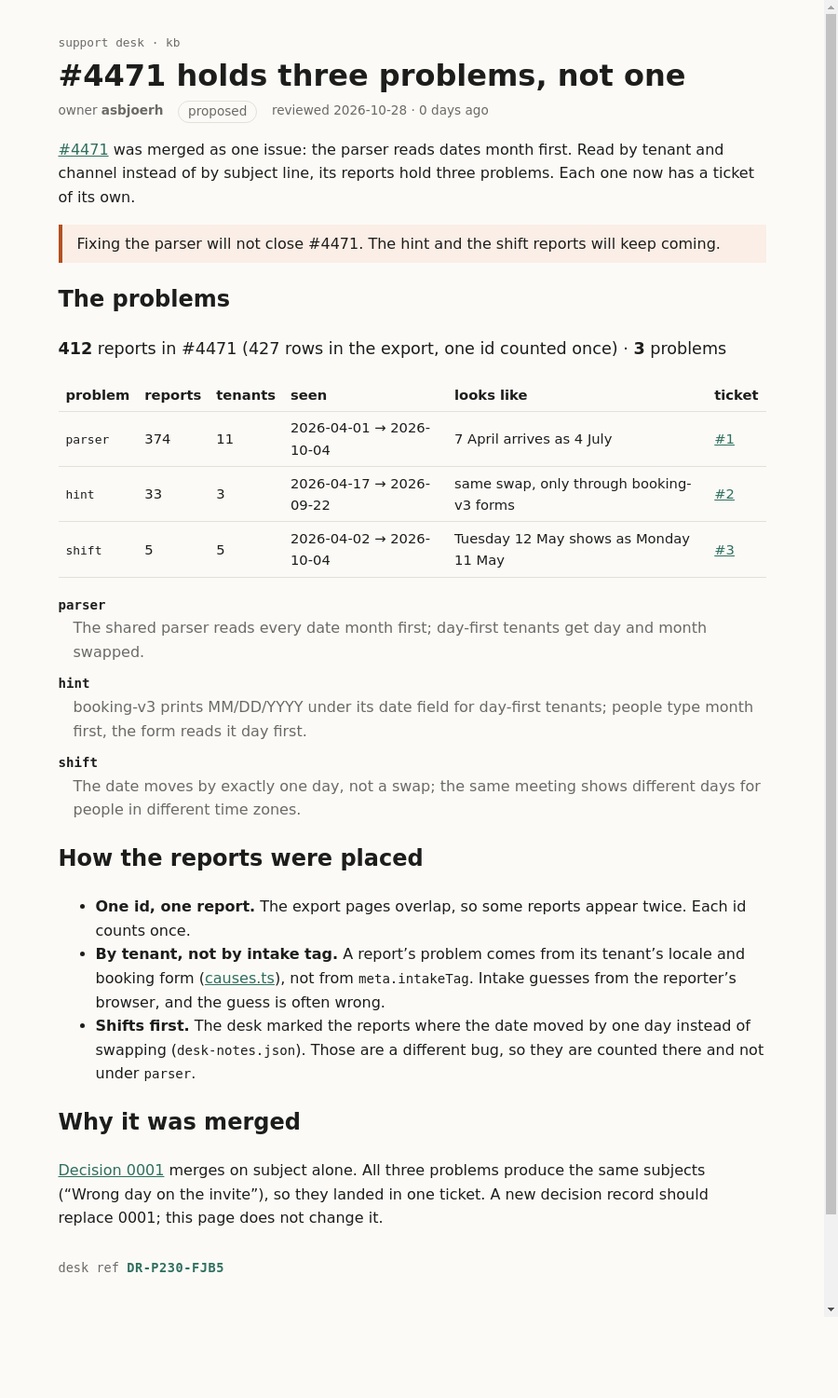
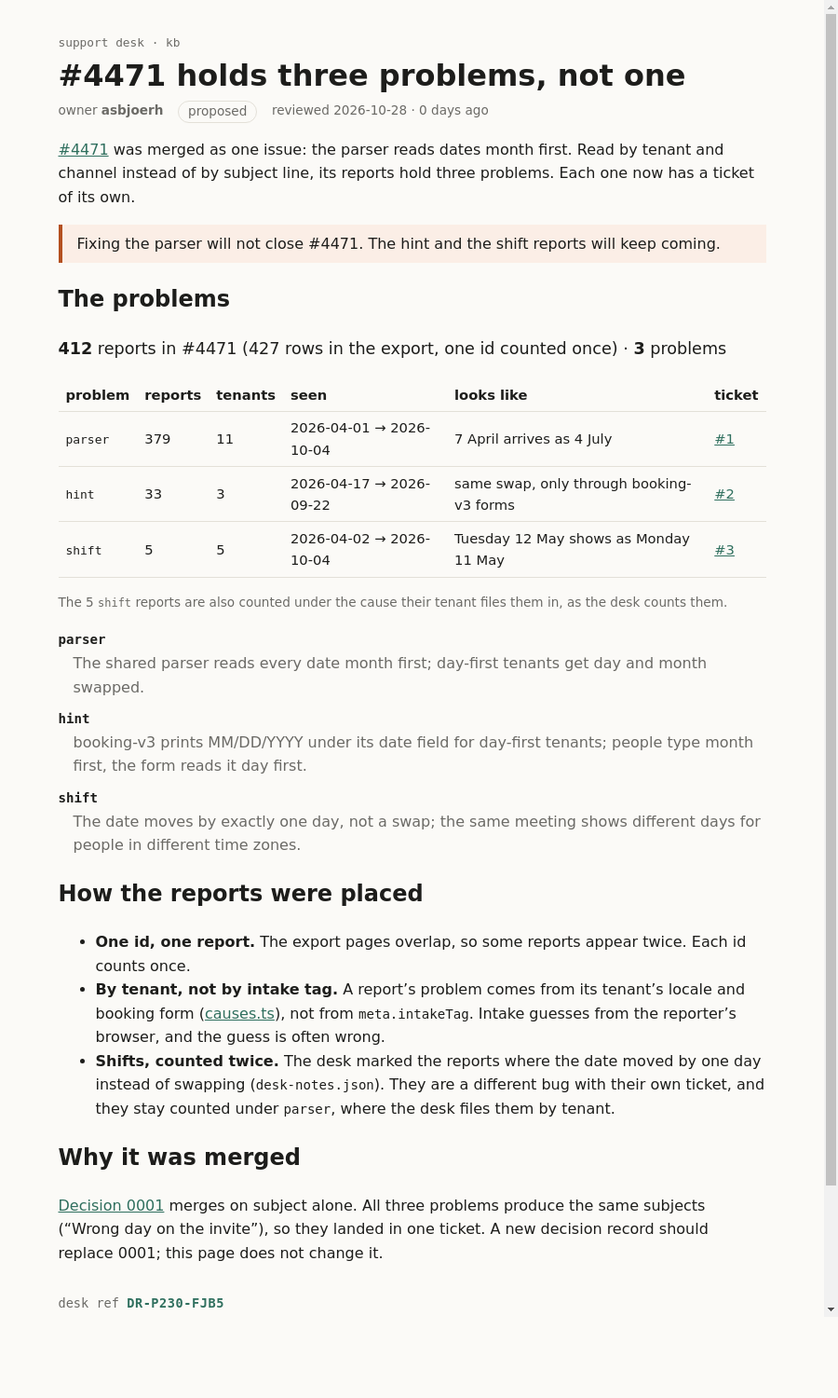
Count #4471 problems the way the desk's CauseTable does
Parser now covers 379 reports: the 5 one-day moves stay counted where the
desk files them, and also make up the shift ticket (#3).

diff --git a/build/kb/incidents/4471-split/index.html b/build/kb/incidents/4471-split/index.html
@@ -9,42 +9,42 @@
 		<link href="../../../_app/immutable/chunks/B2Ul7l_u.js" rel="modulepreload">
 		<link href="../../../_app/immutable/chunks/BCPXOG7W.js" rel="modulepreload">
 		<link href="../../../_app/immutable/chunks/Dh1V97Jm.js" rel="modulepreload">
-		<link href="../../../_app/immutable/entry/app.uLVS_vzj.js" rel="modulepreload">
+		<link href="../../../_app/immutable/entry/app.xJBNhUz1.js" rel="modulepreload">
 		<link href="../../../_app/immutable/nodes/0.BurGglGN.js" rel="modulepreload">
 		<link href="../../../_app/immutable/chunks/DK3Fl9T5.js" rel="modulepreload">
-		<link href="../../../_app/immutable/nodes/5.BGsVmfFN.js" rel="modulepreload">
-		<link href="../../../_app/immutable/chunks/CdKMBRh6.js" rel="modulepreload">
+		<link href="../../../_app/immutable/nodes/5.BeKVQcUq.js" rel="modulepreload">
+		<link href="../../../_app/immutable/chunks/DiomMRxd.js" rel="modulepreload">
 		<link href="../../../_app/immutable/chunks/BTPwLomz.js" rel="modulepreload">
 		<link href="../../../_app/immutable/chunks/CVBzP17p.js" rel="modulepreload">
 		<link href="../../../_app/immutable/chunks/BIy4WKJS.js" rel="modulepreload">
 		<!--e2jw2j--><!----><title>#4471 holds three problems, not one · support kb</title>
 		<link href="../../../_app/immutable/assets/runbook.COyw0cbZ.css" rel="stylesheet">
 		<link href="../../../_app/immutable/assets/Callout.AbLv9dM_.css" rel="stylesheet">
-		<link href="../../../_app/immutable/assets/_page.BfmXIgpt.css" rel="stylesheet">
+		<link href="../../../_app/immutable/assets/_page.BBGU7du8.css" rel="stylesheet">
   </head>
   <body data-sveltekit-preload-data="hover">
     <div style="display: contents"><!--[--><!--[--><!--[0--><!--[--><!--[--><!--[-1--><!--[--><div class="kb svelte-e2jw2j"><header><a class="crumb svelte-e2jw2j" href="/kb">support desk · kb</a> <h1 class="svelte-e2jw2j">#4471 holds three problems, not one</h1> <p class="meta svelte-e2jw2j"><span>owner <b>asbjoerh</b></span> <span class="status proposed svelte-e2jw2j">proposed</span> <span class="svelte-e2jw2j">reviewed 2026-10-28 · 0 days ago</span></p></header> <!--[-1--><!--]--> <main><p><a href="/kb/incidents/4471">#4471</a> was merged as one issue: the parser reads dates month first. Read
 by tenant and channel instead of by subject line, its reports hold three problems. Each one now
-has a ticket of its own.</p> <aside class="warn svelte-17bri61"><!---->Fixing the parser will not close #4471. The hint and the shift reports will keep coming.<!----></aside><!----> <h2>The problems</h2> <p class="sum svelte-1op6c6"><strong>412</strong> reports in #4471 (427 rows in the export, one id counted once) · <strong>3</strong> problems</p> <table><thead><tr><th>problem</th><th>reports</th><th>tenants</th><th>seen</th><th>looks like</th><th>ticket</th></tr></thead><tbody><!--[--><tr><td><code>parser</code></td><td>374</td><td>11</td><td>2026-04-01 → 2026-10-04</td><td>7 April arrives as 4 July</td><td><!--[0--><a href="https://github.com/asbjoerh/mega-dev-challenge-03/issues/1">#1</a><!--]--></td></tr><tr><td><code>hint</code></td><td>33</td><td>3</td><td>2026-04-17 → 2026-09-22</td><td>same swap, only through booking-v3 forms</td><td><!--[0--><a href="https://github.com/asbjoerh/mega-dev-challenge-03/issues/2">#2</a><!--]--></td></tr><tr><td><code>shift</code></td><td>5</td><td>5</td><td>2026-04-02 → 2026-10-04</td><td>Tuesday 12 May shows as Monday 11 May</td><td><!--[0--><a href="https://github.com/asbjoerh/mega-dev-challenge-03/issues/3">#3</a><!--]--></td></tr><!--]--></tbody></table> <dl><!--[--><!--[0--><dt class="svelte-1op6c6"><code>parser</code></dt> <dd class="svelte-1op6c6">The shared parser reads every date month first; day-first tenants get day and month swapped.</dd><!--]--><!--[0--><dt class="svelte-1op6c6"><code>hint</code></dt> <dd class="svelte-1op6c6">booking-v3 prints MM/DD/YYYY under its date field for day-first tenants; people type month first, the form reads it day first.</dd><!--]--><!--[0--><dt class="svelte-1op6c6"><code>shift</code></dt> <dd class="svelte-1op6c6">The date moves by exactly one day, not a swap; the same meeting shows different days for people in different time zones.</dd><!--]--><!--]--></dl><!----> <h2>How the reports were placed</h2> <ul><li><strong>One id, one report.</strong> The export pages overlap, so some reports appear twice. Each id counts once.</li> <li><strong>By tenant, not by intake tag.</strong> A report’s problem comes from its tenant’s locale and booking
+has a ticket of its own.</p> <aside class="warn svelte-17bri61"><!---->Fixing the parser will not close #4471. The hint and the shift reports will keep coming.<!----></aside><!----> <h2>The problems</h2> <p class="sum svelte-1op6c6"><strong>412</strong> reports in #4471 (427 rows in the export, one id counted once) · <strong>3</strong> problems</p> <table><thead><tr><th>problem</th><th>reports</th><th>tenants</th><th>seen</th><th>looks like</th><th>ticket</th></tr></thead><tbody><!--[--><tr><td><code>parser</code></td><td>379</td><td>11</td><td>2026-04-01 → 2026-10-04</td><td>7 April arrives as 4 July</td><td><!--[0--><a href="https://github.com/asbjoerh/mega-dev-challenge-03/issues/1">#1</a><!--]--></td></tr><tr><td><code>hint</code></td><td>33</td><td>3</td><td>2026-04-17 → 2026-09-22</td><td>same swap, only through booking-v3 forms</td><td><!--[0--><a href="https://github.com/asbjoerh/mega-dev-challenge-03/issues/2">#2</a><!--]--></td></tr><tr><td><code>shift</code></td><td>5</td><td>5</td><td>2026-04-02 → 2026-10-04</td><td>Tuesday 12 May shows as Monday 11 May</td><td><!--[0--><a href="https://github.com/asbjoerh/mega-dev-challenge-03/issues/3">#3</a><!--]--></td></tr><!--]--></tbody></table> <!--[0--><p class="note svelte-1op6c6">The 5 <code>shift</code> reports are also counted under the cause their tenant files them in, as the desk counts them.</p><!--]--> <dl><!--[--><!--[0--><dt class="svelte-1op6c6"><code>parser</code></dt> <dd class="svelte-1op6c6">The shared parser reads every date month first; day-first tenants get day and month swapped.</dd><!--]--><!--[0--><dt class="svelte-1op6c6"><code>hint</code></dt> <dd class="svelte-1op6c6">booking-v3 prints MM/DD/YYYY under its date field for day-first tenants; people type month first, the form reads it day first.</dd><!--]--><!--[0--><dt class="svelte-1op6c6"><code>shift</code></dt> <dd class="svelte-1op6c6">The date moves by exactly one day, not a swap; the same meeting shows different days for people in different time zones.</dd><!--]--><!--]--></dl><!----> <h2>How the reports were placed</h2> <ul><li><strong>One id, one report.</strong> The export pages overlap, so some reports appear twice. Each id counts once.</li> <li><strong>By tenant, not by intake tag.</strong> A report’s problem comes from its tenant’s locale and booking
 form (<a href="/kb/triage/dedupe">causes.ts</a>), not from <code>meta.intakeTag</code>. Intake guesses from the
-reporter’s browser, and the guess is often wrong.</li> <li><strong>Shifts first.</strong> The desk marked the reports where the date moved by one day instead of
-swapping (<code>desk-notes.json</code>). Those are a different bug, so they are counted there and not
-under <code>parser</code>.</li></ul> <h2>Why it was merged</h2> <p><a href="/kb/decisions/0001-dedupe-by-subject">Decision 0001</a> merges on subject alone. All three
+reporter’s browser, and the guess is often wrong.</li> <li><strong>Shifts, counted twice.</strong> The desk marked the reports where the date moved by one day instead of
+swapping (<code>desk-notes.json</code>). They are a different bug with their own ticket, and they stay
+counted under <code>parser</code>, where the desk files them by tenant.</li></ul> <h2>Why it was merged</h2> <p><a href="/kb/decisions/0001-dedupe-by-subject">Decision 0001</a> merges on subject alone. All three
 problems produce the same subjects (“Wrong day on the invite”), so they landed in one ticket.
 A new decision record should replace 0001; this page does not change it.</p> <!--[0--><p class="stamp svelte-1280m42">desk ref <b class="svelte-1280m42">DR-P230-FJB5</b></p><!--]--><!----><!----></main> <footer class="svelte-e2jw2j">Pages are written by people. Tables and charts are built from data at render time.</footer></div><!--]--><!--]--><!--]--><!----><!--]--><!--]--><!--]--><!----> <!--[-1--><!--]--><!--]-->
 			
 			<script>
 				{
-					__sveltekit_16bkf6d = {
+					__sveltekit_loyyns = {
 						base: new URL("../../..", location).pathname.slice(0, -1),
-						version: "1793172886619"
+						version: "1793172965807"
 					};
 
 					const element = document.currentScript.parentElement;
 
 					import("../../../_app/immutable/entry/start.CH5w6lId.js").then(async (kit) => {
-						kit.init(__sveltekit_16bkf6d);
-						const app = await import("../../../_app/immutable/entry/app.uLVS_vzj.js");
+						kit.init(__sveltekit_loyyns);
+						const app = await import("../../../_app/immutable/entry/app.xJBNhUz1.js");
 						kit.start(app, element, {
 							node_ids: [0, 5],
 							data: [null,null],

diff --git a/build/_app/immutable/chunks/DiomMRxd.js b/build/_app/immutable/chunks/DiomMRxd.js
@@ -1,0 +1,9 @@
+import{t as e}from"./DK3Fl9T5.js";import{E as t,F as n,H as r,I as i,K as a,L as o,N as s,O as c,R as l,S as u,T as d,U as f,W as p,_ as m,c as h,h as g,k as _,n as v,q as y,r as b,t as x,w as S}from"./BCPXOG7W.js";import{t as C}from"./BTPwLomz.js";import{n as w,t as T}from"./CVBzP17p.js";import{i as E,l as D,r as O,t as k}from"./BIy4WKJS.js";var A={parser:{what:`The shared parser reads every date month first; day-first tenants get day and month swapped.`,seenAs:`7 April arrives as 4 July`},hint:{what:`booking-v3 prints MM/DD/YYYY under its date field for day-first tenants; people type month first, the form reads it day first.`,seenAs:`same swap, only through booking-v3 forms`},shift:{what:`The date moves by exactly one day, not a swap; the same meeting shows different days for people in different time zones.`,seenAs:`Tuesday 12 May shows as Monday 11 May`}};function j(e,t,n,r){let i=D(e).filter(e=>e.mergedInto===t),a=new Map,o=(e,t)=>a.set(e,[...a.get(e)??[],t]);for(let e of i)o(E(e,n(e))??`unplaced`,e),r.includes(e.id)&&o(`shift`,e);let s=[...a.entries()].map(([e,t])=>{let n=t.map(e=>e.receivedAt.slice(0,10)).sort();return{problem:e,reports:t,tenants:new Set(t.map(e=>e.tenant)).size,firstSeen:n[0],lastSeen:n[n.length-1]}}).sort((e,t)=>t.reports.length-e.reports.length);return{merged:i.length,groups:s}}var M=t(`<a> </a>`),N=t(`<tr><td><code> </code></td><td> </td><td> </td><td> </td><td> </td><td><!></td></tr>`),P=t(`<p class="note svelte-1op6c6"> <code>shift</code> reports are also counted under the cause their tenant files them in, as the desk counts them.</p>`),F=t(`<dt class="svelte-1op6c6"><code> </code></dt> <dd class="svelte-1op6c6"> </dd>`,1),I=t(`<p class="sum svelte-1op6c6"><strong> </strong> <strong> </strong> problems</p> <table><thead><tr><th>problem</th><th>reports</th><th>tenants</th><th>seen</th><th>looks like</th><th>ticket</th></tr></thead><tbody></tbody></table> <!> <dl></dl>`,1);function L(e,t){p(t,!0);let b=v(t,`tickets`,19,()=>({})),x=r(()=>j(w,t.ticket,O,T.oneDayMove)),C=r(()=>_(x).groups),E=r(()=>_(x).merged),D=r(()=>_(C).find(e=>e.problem===`shift`)?.reports.length??0),k=w.length;var L=I(),R=i(L),z=n(R),B=o(z,!0),V=l(z),H=l(V),U=o(H,!0);a(),y(R);var W=l(R,2),G=l(n(W));g(G,21,()=>_(C),e=>e.problem,(e,t)=>{var r=N(),i=n(r),a=n(i),d=o(a,!0);y(i);var f=l(i),p=o(f,!0),g=l(f),v=o(g,!0),x=l(g),C=o(x),w=l(x),T=o(w,!0),E=l(w),D=n(E),O=e=>{var n=M(),r=o(n,!0);s(e=>{h(n,`href`,b()[_(t).problem]),u(r,e)},[()=>b()[_(t).problem].replace(/^.*\/issues\//,`#`)]),S(e,n)},k=e=>{var t=c(`—`);S(e,t)};m(D,e=>{b()[_(t).problem]?e(O):e(k,-1)}),y(E),y(r),s(()=>{u(d,_(t).problem),u(p,_(t).reports.length),u(v,_(t).tenants),u(C,`${_(t).firstSeen??``} → ${_(t).lastSeen??``}`),u(T,_(t).problem===`unplaced`?`no tenant on file`:A[_(t).problem].seenAs)}),S(e,r)}),y(G),y(W);var K=l(W,2),q=e=>{var t=P(),r=n(t);a(2),y(t),s(()=>u(r,`The ${_(D)??``} `)),S(e,t)};m(K,e=>{_(D)&&e(q)});var J=l(K,2);g(J,21,()=>_(C),e=>e.problem,(e,t)=>{var r=d(),a=i(r),c=e=>{var r=F(),a=i(r),c=n(a),d=o(c,!0);y(a);var f=l(a,2),p=o(f,!0);s(()=>{u(d,_(t).problem),u(p,A[_(t).problem].what)}),S(e,r)};m(a,e=>{_(t).problem!==`unplaced`&&e(c)}),S(e,r)}),y(J),s(()=>{u(B,_(E)),u(V,` reports in #${t.ticket??``} (${k??``} rows in the export, one id counted once) · `),u(U,_(C).length)}),S(e,L),f()}var R=`0123456789ABCDEFGHJKMNPQRSTVWXYZ`;function z(e,t){let n=t>>>0;for(let t=0;t<e.length;t++)n^=e.charCodeAt(t),n=Math.imul(n,16777619)>>>0;return n}function B(e){let t=e.trim(),n=z(t,2166136261),r=z(t,2654435769),i=BigInt(n)<<8n|BigInt(r&255),a=``;for(let e=0;e<8;e++)a=R[Number(i&31n)]+a,i>>=5n;return`DR-${a.slice(0,4)}-${a.slice(4)}`}var V=t(`<p class="stamp svelte-1280m42">desk ref <b class="svelte-1280m42"> </b></p>`),H=t(`<p class="stamp missing svelte-1280m42">no desk ref: this page isn't signed (no <code>signature</code> in its frontmatter)</p>`);function U(e,t){p(t,!0);let a=r(()=>t.signature?B(t.signature):null);var c=d(),h=i(c),g=e=>{var t=V(),r=l(n(t)),i=o(r,!0);y(t),s(()=>u(i,_(a))),S(e,t)},v=e=>{var t=H();S(e,t)};m(h,e=>{_(a)?e(g):e(v,-1)}),S(e,c),f()}var W=e({default:()=>$,metadata:()=>G}),G={layout:`runbook`,title:`#4471 holds three problems, not one`,owner:`asbjoerh`,status:`proposed`,reviewed:`2026-10-28T00:00:00.000Z`,signature:`v1.eyJzdWIiOiIzMzM4IiwiYXVkIjoiY2hhbGxlbmdlOndoYXQtaXQtc2hvd3MiLCJpYXQiOjE3OTMxNzIzODgsImV4cCI6MTc5MzI1ODc4OH0.BZH2iklKbkUv4aNCVdapvltlCIk4Xo6yV578-lsls-w`},{layout:K,title:q,owner:J,status:Y,reviewed:X,signature:Z}=G,Q=t(`<p><a href="/kb/incidents/4471">#4471</a> was merged as one issue: the parser reads dates month first. Read
+by tenant and channel instead of by subject line, its reports hold three problems. Each one now
+has a ticket of its own.</p> <!> <h2>The problems</h2> <!> <h2>How the reports were placed</h2> <ul><li><strong>One id, one report.</strong> The export pages overlap, so some reports appear twice. Each id counts once.</li> <li><strong>By tenant, not by intake tag.</strong> A report’s problem comes from its tenant’s locale and booking
+form (<a href="/kb/triage/dedupe">causes.ts</a>), not from <code>meta.intakeTag</code>. Intake guesses from the
+reporter’s browser, and the guess is often wrong.</li> <li><strong>Shifts, counted twice.</strong> The desk marked the reports where the date moved by one day instead of
+swapping (<code>desk-notes.json</code>). They are a different bug with their own ticket, and they stay
+counted under <code>parser</code>, where the desk files them by tenant.</li></ul> <h2>Why it was merged</h2> <p><a href="/kb/decisions/0001-dedupe-by-subject">Decision 0001</a> merges on subject alone. All three
+problems produce the same subjects (“Wrong day on the invite”), so they landed in one ticket.
+A new decision record should replace 0001; this page does not change it.</p> <!>`,1);function $(e,t){let n=x(t,[`children`,`$$slots`,`$$events`,`$$legacy`]),r={parser:`https://github.com/asbjoerh/mega-dev-challenge-03/issues/1`,hint:`https://github.com/asbjoerh/mega-dev-challenge-03/issues/2`,shift:`https://github.com/asbjoerh/mega-dev-challenge-03/issues/3`};C(e,b(()=>n,()=>G,{children:(e,t)=>{var n=Q(),o=l(i(n),2);k(o,{kind:`warn`,children:(e,t)=>{a();var n=c(`Fixing the parser will not close #4471. The hint and the shift reports will keep coming.`);S(e,n)},$$slots:{default:!0}});var s=l(o,4);L(s,{ticket:4471,get tickets(){return r}}),U(l(s,10),{get signature(){return Z}}),S(e,n)},$$slots:{default:!0}}))}export{$ as n,W as t};

diff --git a/build/kb/index.html b/build/kb/index.html
@@ -9,22 +9,22 @@
 		<link href="../_app/immutable/chunks/B2Ul7l_u.js" rel="modulepreload">
 		<link href="../_app/immutable/chunks/BCPXOG7W.js" rel="modulepreload">
 		<link href="../_app/immutable/chunks/Dh1V97Jm.js" rel="modulepreload">
-		<link href="../_app/immutable/entry/app.uLVS_vzj.js" rel="modulepreload">
+		<link href="../_app/immutable/entry/app.xJBNhUz1.js" rel="modulepreload">
 		<link href="../_app/immutable/nodes/0.BurGglGN.js" rel="modulepreload">
 		<link href="../_app/immutable/chunks/DK3Fl9T5.js" rel="modulepreload">
-		<link href="../_app/immutable/nodes/2.CbntxB6U.js" rel="modulepreload">
+		<link href="../_app/immutable/nodes/2.C1-e4lHU.js" rel="modulepreload">
 		<link href="../_app/immutable/chunks/BTPwLomz.js" rel="modulepreload">
 		<link href="../_app/immutable/chunks/YX22L_Ud.js" rel="modulepreload">
 		<link href="../_app/immutable/chunks/CgeRC4yK.js" rel="modulepreload">
 		<link href="../_app/immutable/chunks/CVBzP17p.js" rel="modulepreload">
 		<link href="../_app/immutable/chunks/BIy4WKJS.js" rel="modulepreload">
-		<link href="../_app/immutable/chunks/CdKMBRh6.js" rel="modulepreload">
+		<link href="../_app/immutable/chunks/DiomMRxd.js" rel="modulepreload">
 		<link href="../_app/immutable/chunks/BGqJVSDw.js" rel="modulepreload">
 		<!--e2jw2j--><!----><title>Support knowledge base · support kb</title>
 		<link href="../_app/immutable/assets/runbook.COyw0cbZ.css" rel="stylesheet">
 		<link href="../_app/immutable/assets/Callout.AbLv9dM_.css" rel="stylesheet">
 		<link href="../_app/immutable/assets/_page.D56XP2ro.css" rel="stylesheet">
-		<link href="../_app/immutable/assets/_page.BfmXIgpt.css" rel="stylesheet">
+		<link href="../_app/immutable/assets/_page.BBGU7du8.css" rel="stylesheet">
 		<link href="../_app/immutable/assets/_page.DO6Yid7X.css" rel="stylesheet">
 		<link href="../_app/immutable/assets/2.Bt0MwIZg.css" rel="stylesheet">
   </head>
@@ -34,16 +34,16 @@ computed by a component, not typed into a paragraph.</p><!----></main> <footer c
 			
 			<script>
 				{
-					__sveltekit_16bkf6d = {
+					__sveltekit_loyyns = {
 						base: new URL("..", location).pathname.slice(0, -1),
-						version: "1793172886619"
+						version: "1793172965807"
 					};
 
 					const element = document.currentScript.parentElement;
 
 					import("../_app/immutable/entry/start.CH5w6lId.js").then(async (kit) => {
-						kit.init(__sveltekit_16bkf6d);
-						const app = await import("../_app/immutable/entry/app.uLVS_vzj.js");
+						kit.init(__sveltekit_loyyns);
+						const app = await import("../_app/immutable/entry/app.xJBNhUz1.js");
 						kit.start(app, element, {
 							node_ids: [0, 2],
 							data: [null,null],

diff --git a/src/lib/kb/split.ts b/src/lib/kb/split.ts
@@ -1,5 +1,6 @@
-// How #4471 splits into the problems it holds. causes.ts places a report by tenant and channel;
-// the desk's own notes (desk-notes.json) mark the reports that are not a day/month swap at all.
+// How #4471 splits into the problems it holds, counted the way the desk counts (CauseTable): every
+// report under its cause from causes.ts. The desk's notes (desk-notes.json) mark the reports that
+// are a one-day move, not a swap: they stay counted where they're filed and also make up `shift`.
 import { causeOf, uniqueById, type Report, type Tenant } from '#lib/kb/causes';
 
 export type Problem = 'parser' | 'hint' | 'shift';
@@ -19,11 +20,8 @@ export const PROBLEMS: Record<Problem, { what: string; seenAs: string }> = {
   },
 };
 
-export function problemOf(r: Report, t: Tenant | undefined, oneDayMove: readonly string[]): Problem | null {
-  if (oneDayMove.includes(r.id)) return 'shift';
-  return causeOf(r, t);
-}
 
+// `merged`: the unique reports in the ticket; a shift report also counts under its cause.
 export type ProblemGroup = { problem: Problem | 'unplaced'; reports: Report[]; tenants: number; firstSeen: string; lastSeen: string };
 
 // One id, one report; only reports merged into `ticket`.
@@ -32,17 +30,19 @@ export function splitTicket(
   ticket: number,
   tenantOf: (r: Report) => Tenant | undefined,
   oneDayMove: readonly string[],
-): ProblemGroup[] {
+): { merged: number; groups: ProblemGroup[] } {
   const merged = uniqueById(reports).filter((r) => r.mergedInto === ticket);
   const by = new Map<ProblemGroup['problem'], Report[]>();
+  const add = (p: ProblemGroup['problem'], r: Report) => by.set(p, [...(by.get(p) ?? []), r]);
   for (const r of merged) {
-    const p = problemOf(r, tenantOf(r), oneDayMove) ?? 'unplaced';
-    by.set(p, [...(by.get(p) ?? []), r]);
+    add(causeOf(r, tenantOf(r)) ?? 'unplaced', r);
+    if (oneDayMove.includes(r.id)) add('shift', r);
   }
-  return [...by.entries()]
+  const groups = [...by.entries()]
     .map(([problem, rs]) => {
       const days = rs.map((r) => r.receivedAt.slice(0, 10)).sort();
       return { problem, reports: rs, tenants: new Set(rs.map((r) => r.tenant)).size, firstSeen: days[0], lastSeen: days[days.length - 1] };
     })
     .sort((a, b) => b.reports.length - a.reports.length);
+  return { merged: merged.length, groups };
 }

diff --git a/build/_app/immutable/nodes/2.C1-e4lHU.js b/build/_app/immutable/nodes/2.C1-e4lHU.js
@@ -1,0 +1,2 @@
+import{E as e,F as t,I as n,K as r,L as i,N as a,R as o,S as s,U as c,W as l,c as u,d,h as f,i as p,k as m,q as h,r as g,t as _,w as v}from"../chunks/BCPXOG7W.js";import{n as y,r as b,t as x}from"../chunks/BTPwLomz.js";import{t as S}from"../chunks/YX22L_Ud.js";import{t as C}from"../chunks/CgeRC4yK.js";import{t as w}from"../chunks/DiomMRxd.js";import{t as T}from"../chunks/BGqJVSDw.js";var E=e(`<tr><td><a> </a></td><td> </td><td> </td><td> </td></tr>`),D=e(`<table><thead><tr><th>page</th><th>owner</th><th>status</th><th>reviewed</th></tr></thead><tbody></tbody></table>`);function O(e,n){l(n,!1);let r=Object.entries(Object.assign({"/src/routes/kb/decisions/0001-dedupe-by-subject/+page.svx":S,"/src/routes/kb/incidents/4471/+page.svx":C,"/src/routes/kb/incidents/4471-split/+page.svx":w,"/src/routes/kb/triage/dedupe/+page.svx":T})).map(([e,t])=>({href:e.replace(`/src/routes`,``).replace(`/+page.svx`,``),...t.metadata})).sort((e,t)=>e.href.localeCompare(t.href));p();var g=D(),_=o(t(g));f(_,5,()=>r,e=>e.href,(e,n)=>{var r=E(),c=t(r),l=t(c),f=i(l,!0);h(c);var p=o(c),g=i(p,!0),_=o(p),x=i(_,!0),S=o(_);let C;var w=i(S,!0);h(r),a((e,t)=>{u(l,`href`,m(n).href),s(f,m(n).title),s(g,m(n).owner),s(x,m(n).status),C=d(S,1,`svelte-tbc1ha`,null,C,{stale:e}),s(w,t)},[()=>y(m(n).reviewed)>180,()=>b(m(n).reviewed)]),v(e,r)}),h(_),h(g),v(e,g),c()}var k={layout:`runbook`,title:`Support knowledge base`,owner:`support desk`,status:`living`,reviewed:`2026-09-28T00:00:00.000Z`},{layout:A,title:j,owner:M,status:N,reviewed:P}=k,F=e(`<p>What the support desk knows, kept next to the code that knows it. One desk, every product: <code>sched-prod</code> (calendar invites for about 300k people) and the rest. When something breaks, the reports land here first.</p> <p>Start with <a href="/kb/triage/dedupe">triage</a> if you are new on the desk.</p> <h2>Pages</h2> <!> <h2>Writing a page</h2> <p>Keep the words here and the logic in <code>src/lib</code>. A number that can be computed should be
+computed by a component, not typed into a paragraph.</p>`,1);function I(e,t){let i=_(t,[`children`,`$$slots`,`$$events`,`$$legacy`]);x(e,g(()=>i,()=>k,{children:(e,t)=>{var i=F();O(o(n(i),6),{}),r(4),v(e,i)},$$slots:{default:!0}}))}export{I as component};

diff --git a/build/_app/immutable/entry/app.xJBNhUz1.js b/build/_app/immutable/entry/app.xJBNhUz1.js
@@ -1,0 +1,2 @@
+const __vite__mapDeps=(i,m=__vite__mapDeps,d=(m.f||(m.f=["../nodes/0.BurGglGN.js","../chunks/DK3Fl9T5.js","../chunks/BCPXOG7W.js","../nodes/1.mOwa9YdW.js","../chunks/Dh1V97Jm.js","./payload.DSmR2FwN.js","../nodes/2.C1-e4lHU.js","../chunks/BTPwLomz.js","../assets/runbook.COyw0cbZ.css","../chunks/YX22L_Ud.js","../chunks/CgeRC4yK.js","../chunks/CVBzP17p.js","../chunks/BIy4WKJS.js","../assets/Callout.AbLv9dM_.css","../assets/_page.D56XP2ro.css","../chunks/DiomMRxd.js","../assets/_page.BBGU7du8.css","../chunks/BGqJVSDw.js","../assets/_page.DO6Yid7X.css","../assets/2.Bt0MwIZg.css","../nodes/3.DRxPfvn3.js","../nodes/4.rt2PfD_4.js","../nodes/5.BeKVQcUq.js","../nodes/6.sFtxrtyV.js"])))=>i.map(i=>d[i]);
+import{t as e}from"../chunks/CRzLMJPS.js";var t={},n=[()=>e(()=>import(`../nodes/0.BurGglGN.js`),__vite__mapDeps([0,1,2]),import.meta.url),()=>e(()=>import(`../nodes/1.mOwa9YdW.js`),__vite__mapDeps([3,2,4,5]),import.meta.url),()=>e(()=>import(`../nodes/2.C1-e4lHU.js`),__vite__mapDeps([6,2,7,8,9,1,10,11,12,13,14,15,16,17,18,19]),import.meta.url),()=>e(()=>import(`../nodes/3.DRxPfvn3.js`),__vite__mapDeps([20,9,1,2,7,8]),import.meta.url),()=>e(()=>import(`../nodes/4.rt2PfD_4.js`),__vite__mapDeps([21,10,1,2,7,8,11,12,13,14]),import.meta.url),()=>e(()=>import(`../nodes/5.BeKVQcUq.js`),__vite__mapDeps([22,15,1,2,7,8,11,12,13,16]),import.meta.url),()=>e(()=>import(`../nodes/6.sFtxrtyV.js`),__vite__mapDeps([23,17,1,2,7,8,12,13,18]),import.meta.url)],r=[],i={"/kb":[2],"/kb/decisions/0001-dedupe-by-subject":[3],"/kb/incidents/4471-split":[5],"/kb/incidents/4471":[4],"/kb/triage/dedupe":[6]},a={handleError:(({kind:e,error:t})=>{e===`unknown`&&console.error(t)}),reroute:(()=>{}),transport:{}},o=Object.fromEntries(Object.entries(a.transport).map(([e,t])=>[e,t.decode])),s=Object.fromEntries(Object.entries(a.transport).map(([e,t])=>[e,t.encode])),c=!1,l=(e,t)=>o[e](t),u=()=>e(()=>import(`../chunks/Bjy-W4x2.js`).then(e=>e.default),[],import.meta.url);export{l as decode,o as decoders,i as dictionary,s as encoders,u as get_error_template,c as hash,a as hooks,t as matchers,n as nodes,r as server_loads};

diff --git a/build/kb/decisions/0001-dedupe-by-subject/index.html b/build/kb/decisions/0001-dedupe-by-subject/index.html
@@ -9,7 +9,7 @@
 		<link href="../../../_app/immutable/chunks/B2Ul7l_u.js" rel="modulepreload">
 		<link href="../../../_app/immutable/chunks/BCPXOG7W.js" rel="modulepreload">
 		<link href="../../../_app/immutable/chunks/Dh1V97Jm.js" rel="modulepreload">
-		<link href="../../../_app/immutable/entry/app.uLVS_vzj.js" rel="modulepreload">
+		<link href="../../../_app/immutable/entry/app.xJBNhUz1.js" rel="modulepreload">
 		<link href="../../../_app/immutable/nodes/0.BurGglGN.js" rel="modulepreload">
 		<link href="../../../_app/immutable/chunks/DK3Fl9T5.js" rel="modulepreload">
 		<link href="../../../_app/immutable/nodes/3.DRxPfvn3.js" rel="modulepreload">
@@ -26,16 +26,16 @@ engineering merges them later.</li></ul><!----></main> <footer class="svelte-e2j
 			
 			<script>
 				{
-					__sveltekit_16bkf6d = {
+					__sveltekit_loyyns = {
 						base: new URL("../../..", location).pathname.slice(0, -1),
-						version: "1793172886619"
+						version: "1793172965807"
 					};
 
 					const element = document.currentScript.parentElement;
 
 					import("../../../_app/immutable/entry/start.CH5w6lId.js").then(async (kit) => {
-						kit.init(__sveltekit_16bkf6d);
-						const app = await import("../../../_app/immutable/entry/app.uLVS_vzj.js");
+						kit.init(__sveltekit_loyyns);
+						const app = await import("../../../_app/immutable/entry/app.xJBNhUz1.js");
 						kit.start(app, element, {
 							node_ids: [0, 3],
 							data: [null,null],

diff --git a/build/kb/incidents/4471/index.html b/build/kb/incidents/4471/index.html
@@ -9,7 +9,7 @@
 		<link href="../../../_app/immutable/chunks/B2Ul7l_u.js" rel="modulepreload">
 		<link href="../../../_app/immutable/chunks/BCPXOG7W.js" rel="modulepreload">
 		<link href="../../../_app/immutable/chunks/Dh1V97Jm.js" rel="modulepreload">
-		<link href="../../../_app/immutable/entry/app.uLVS_vzj.js" rel="modulepreload">
+		<link href="../../../_app/immutable/entry/app.xJBNhUz1.js" rel="modulepreload">
 		<link href="../../../_app/immutable/nodes/0.BurGglGN.js" rel="modulepreload">
 		<link href="../../../_app/immutable/chunks/DK3Fl9T5.js" rel="modulepreload">
 		<link href="../../../_app/immutable/nodes/4.rt2PfD_4.js" rel="modulepreload">
@@ -29,16 +29,16 @@ first. The fix is queued.</p> <aside class="note svelte-17bri61"><!---->Known. O
 			
 			<script>
 				{
-					__sveltekit_16bkf6d = {
+					__sveltekit_loyyns = {
 						base: new URL("../../..", location).pathname.slice(0, -1),
-						version: "1793172886619"
+						version: "1793172965807"
 					};
 
 					const element = document.currentScript.parentElement;
 
 					import("../../../_app/immutable/entry/start.CH5w6lId.js").then(async (kit) => {
-						kit.init(__sveltekit_16bkf6d);
-						const app = await import("../../../_app/immutable/entry/app.uLVS_vzj.js");
+						kit.init(__sveltekit_loyyns);
+						const app = await import("../../../_app/immutable/entry/app.xJBNhUz1.js");
 						kit.start(app, element, {
 							node_ids: [0, 4],
 							data: [null,null],

diff --git a/build/kb/triage/dedupe/index.html b/build/kb/triage/dedupe/index.html
@@ -9,7 +9,7 @@
 		<link href="../../../_app/immutable/chunks/B2Ul7l_u.js" rel="modulepreload">
 		<link href="../../../_app/immutable/chunks/BCPXOG7W.js" rel="modulepreload">
 		<link href="../../../_app/immutable/chunks/Dh1V97Jm.js" rel="modulepreload">
-		<link href="../../../_app/immutable/entry/app.uLVS_vzj.js" rel="modulepreload">
+		<link href="../../../_app/immutable/entry/app.xJBNhUz1.js" rel="modulepreload">
 		<link href="../../../_app/immutable/nodes/0.BurGglGN.js" rel="modulepreload">
 		<link href="../../../_app/immutable/chunks/DK3Fl9T5.js" rel="modulepreload">
 		<link href="../../../_app/immutable/nodes/6.sFtxrtyV.js" rel="modulepreload">
@@ -29,16 +29,16 @@ anything else.<!----></aside><!----> <h2>Try it</h2> <div class="try svelte-gq0h
 			
 			<script>
 				{
-					__sveltekit_16bkf6d = {
+					__sveltekit_loyyns = {
 						base: new URL("../../..", location).pathname.slice(0, -1),
-						version: "1793172886619"
+						version: "1793172965807"
 					};
 
 					const element = document.currentScript.parentElement;
 
 					import("../../../_app/immutable/entry/start.CH5w6lId.js").then(async (kit) => {
-						kit.init(__sveltekit_16bkf6d);
-						const app = await import("../../../_app/immutable/entry/app.uLVS_vzj.js");
+						kit.init(__sveltekit_loyyns);
+						const app = await import("../../../_app/immutable/entry/app.xJBNhUz1.js");
 						kit.start(app, element, {
 							node_ids: [0, 6],
 							data: [null,null],

diff --git a/src/lib/kb/ProblemTable.svelte b/src/lib/kb/ProblemTable.svelte
@@ -8,8 +8,10 @@
   // tickets: problem → link to the ticket filed for it.
   let { ticket, tickets = {} }: { ticket: number; tickets?: Record<string, string> } = $props();
 
-  const groups = $derived(splitTicket(reports as Report[], ticket, tenantOf, notes.oneDayMove));
-  const total = $derived(groups.reduce((n, g) => n + g.reports.length, 0));
+  const split = $derived(splitTicket(reports as Report[], ticket, tenantOf, notes.oneDayMove));
+  const groups = $derived(split.groups);
+  const total = $derived(split.merged);
+  const shifts = $derived(groups.find((g) => g.problem === 'shift')?.reports.length ?? 0);
   const rows = (reports as Report[]).length;
 </script>
 
@@ -34,6 +36,10 @@
   </tbody>
 </table>
 
+{#if shifts}
+  <p class="note">The {shifts} <code>shift</code> reports are also counted under the cause their tenant files them in, as the desk counts them.</p>
+{/if}
+
 <dl>
   {#each groups as g (g.problem)}
     {#if g.problem !== 'unplaced'}
@@ -45,6 +51,7 @@
 
 <style>
   .sum { font-size: 1.1rem; }
+  .note { color: var(--muted); font-size: 0.85em; }
   dt { font-weight: 600; margin-top: 0.5rem; }
   dd { margin: 0 0 0 1rem; color: var(--muted); }
 </style>

diff --git a/build/_app/immutable/assets/_page.BBGU7du8.css b/build/_app/immutable/assets/_page.BBGU7du8.css
@@ -1,0 +1,1 @@
+.sum.svelte-1op6c6{font-size:1.1rem}.note.svelte-1op6c6{color:var(--muted);font-size:.85em}dt.svelte-1op6c6{margin-top:.5rem;font-weight:600}dd.svelte-1op6c6{color:var(--muted);margin:0 0 0 1rem}.stamp.svelte-1280m42{font:.85rem var(--mono);color:var(--muted);margin:2rem 0 0}.stamp.svelte-1280m42 b:where(.svelte-1280m42){color:var(--accent);letter-spacing:.04em}.missing.svelte-1280m42{color:var(--warn)}

diff --git a/build/_app/immutable/nodes/5.BeKVQcUq.js b/build/_app/immutable/nodes/5.BeKVQcUq.js
@@ -1,0 +1,1 @@
+export{n as component}from"../chunks/DiomMRxd.js";
